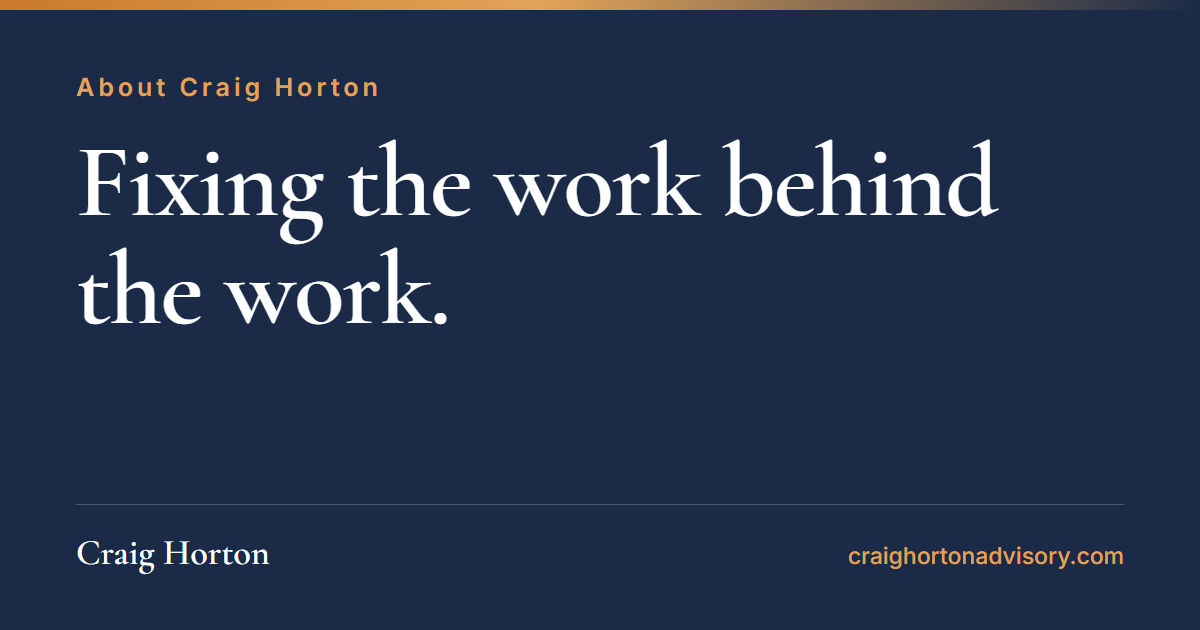
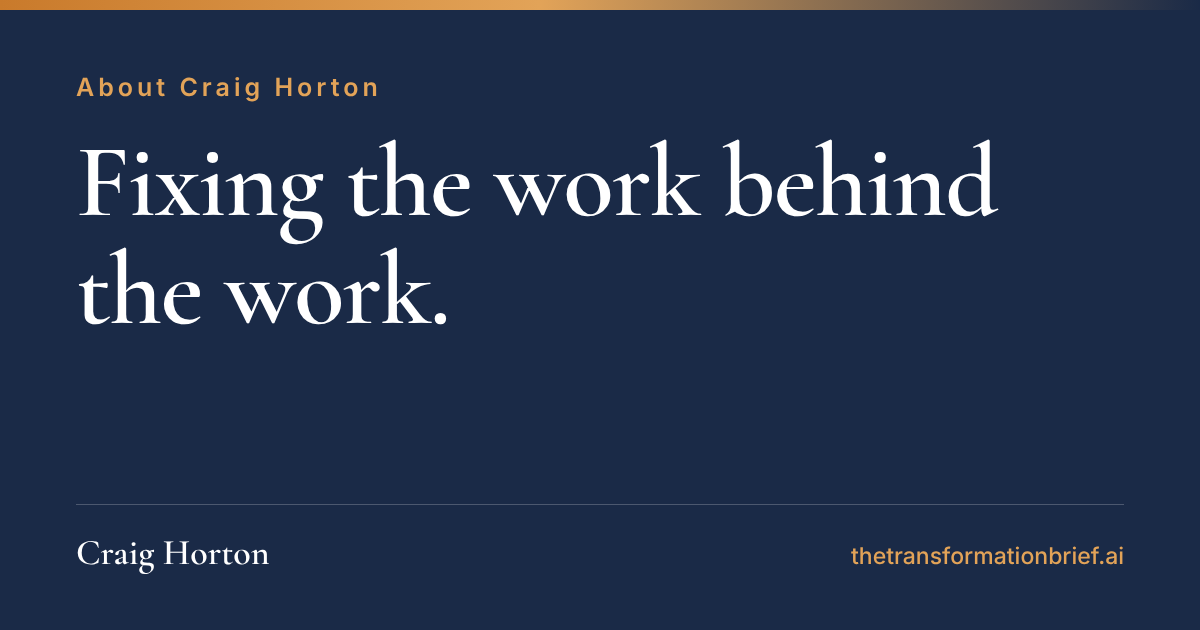
The site's address is thetransformationbrief.ai
Every page, the sitemap, the share images and the links in mail now give
the new address. The old address will forward to it.

Left as they are: the mail addresses, which stay on the old domain for
now, the short pulse address, and two files that record what was sent in
the past.

Claude-Session: https://claude.ai/code/session_015xj3ht279fNGmS8wRyN6y1

diff --git a/issue-17-briefing.html b/issue-17-briefing.html
@@ -4,18 +4,18 @@
 <meta charset="UTF-8">
 <meta name="viewport" content="width=device-width, initial-scale=1.0">
 <title>The model is open, the accountability is yours | The Transformation Brief</title>
-<link rel="canonical" href="https://www.craighortonadvisory.com/issue-17-briefing.html">
+<link rel="canonical" href="https://thetransformationbrief.ai/issue-17-briefing.html">
 <meta property="og:type" content="article">
 <meta property="og:title" content="The model is open, the accountability is yours | The Transformation Brief">
 <meta property="og:description" content="The Transformation Brief, Issue 17, briefing edition. The model is open, the accountability is yours. Twenty-five companies asked Washington to back open-weight AI, and the responsibility moves with the weights.">
 <meta property="og:site_name" content="Craig Horton">
-<meta property="og:url" content="https://www.craighortonadvisory.com/issue-17-briefing.html">
-<meta property="og:image" content="https://www.craighortonadvisory.com/images/share/issue-17.png">
+<meta property="og:url" content="https://thetransformationbrief.ai/issue-17-briefing.html">
+<meta property="og:image" content="https://thetransformationbrief.ai/images/share/issue-17.png">
 <meta property="og:image:width" content="1200">
 <meta property="og:image:height" content="630">
 <meta property="og:image:alt" content="The Transformation Brief, Issue 17: The model is open, the accountability is yours">
 <meta name="twitter:card" content="summary_large_image">
-<meta name="twitter:image" content="https://www.craighortonadvisory.com/images/share/issue-17.png">
+<meta name="twitter:image" content="https://thetransformationbrief.ai/images/share/issue-17.png">
 <meta name="description" content="The Transformation Brief, Issue 17, briefing edition. The model is open, the accountability is yours. Twenty-five companies asked Washington to back open-weight AI, and the responsibility moves with the weights.">
 <link href="https://fonts.googleapis.com/css2?family=Cormorant+Garamond:wght@400;500;600;700&family=Inter:wght@400;500;600;700&display=swap" rel="stylesheet">
 <style>
@@ -108,7 +108,7 @@
     <div class="ptag">One-question pulse</div>
     <p>This month we are measuring the Strategic Alignment driver of the Blueprint. Your answer joins the Blueprint Index, which we publish in the next issue.</p>
     <div class="q">Can your board or executive team articulate your organisation's AI strategy in one sentence that would survive a 30-second explanation to a new hire?</div>
-    <div class="cta">Answer in 15 seconds, anonymous, no email: <a href="https://brief.craighortonadvisory.com/pulse">brief.craighortonadvisory.com/pulse</a></div>
+    <div class="cta">Answer in 15 seconds, anonymous, no email: <a href="https://thetransformationbrief.ai/pulse">thetransformationbrief.ai/pulse</a></div>
   </div>
 
   <div class="office">
@@ -146,7 +146,7 @@
 
   <div class="foot">
     <p>Once again, I appreciate your interest and time to read this brief, and as always, look forward to your feedback and comments. Enjoy your weekend, Craig</p>
-    <p style="margin-top:10px;">The Transformation Brief &nbsp;·&nbsp; <a href="https://brief.craighortonadvisory.com">brief.craighortonadvisory.com</a> &nbsp;·&nbsp; <a href="https://brief.craighortonadvisory.com/archive.html">Archive</a></p>
+    <p style="margin-top:10px;">The Transformation Brief &nbsp;·&nbsp; <a href="https://thetransformationbrief.ai">thetransformationbrief.ai</a> &nbsp;·&nbsp; <a href="https://thetransformationbrief.ai/archive.html">Archive</a></p>
   </div>
 
 </div>

diff --git a/issue-18-briefing.html b/issue-18-briefing.html
@@ -4,19 +4,19 @@
 <meta charset="UTF-8">
 <meta name="viewport" content="width=device-width, initial-scale=1.0">
 <title>Can you count your agents? | The Transformation Brief</title>
-<link rel="canonical" href="https://www.craighortonadvisory.com/issue-18-briefing.html">
+<link rel="canonical" href="https://thetransformationbrief.ai/issue-18-briefing.html">
 <meta name="description" content="AI agents are moving into the enterprise faster than most governance models can track, with SAP LeanIX reporting that only 17% of companies have visibility of agent performance or conformance.">
 <meta property="og:type" content="article">
 <meta property="og:title" content="Can you count your agents? | The Transformation Brief">
 <meta property="og:description" content="AI agents are moving into the enterprise faster than most governance models can track, with SAP LeanIX reporting that only 17% of companies have visibility of agent performance or conformance.">
 <meta property="og:site_name" content="Craig Horton">
-<meta property="og:url" content="https://www.craighortonadvisory.com/issue-18-briefing.html">
-<meta property="og:image" content="https://www.craighortonadvisory.com/images/share/issue-18.png">
+<meta property="og:url" content="https://thetransformationbrief.ai/issue-18-briefing.html">
+<meta property="og:image" content="https://thetransformationbrief.ai/images/share/issue-18.png">
 <meta property="og:image:width" content="1200">
 <meta property="og:image:height" content="630">
 <meta property="og:image:alt" content="The Transformation Brief, Issue 18: Can you count your agents?">
 <meta name="twitter:card" content="summary_large_image">
-<meta name="twitter:image" content="https://www.craighortonadvisory.com/images/share/issue-18.png">
+<meta name="twitter:image" content="https://thetransformationbrief.ai/images/share/issue-18.png">
 <style>
   :root{--navy:#1a2a47;--amber:#c97a2b;--amber-soft:#e2a358;--paper:#ffffff;--ink:#26344c;--muted:#647087;--line:#d9dce2;--white:#fff}
   *{box-sizing:border-box} body{margin:0;background:#eceef1;color:var(--ink);font-family:Arial,sans-serif;line-height:1.62;-webkit-font-smoothing:antialiased}
@@ -103,7 +103,7 @@
   <footer class="foot">
     <p>Once again, I appreciate your interest and time in reading this brief, and as always, I look forward to your feedback and comments. Enjoy your weekend, Craig</p>
     <p class="disclosure">Written in a personal capacity using public sources. The views are my own and do not represent Pax8. No confidential customer, partner or company information has been used.</p>
-    <p style="margin-top:10px;">The Transformation Brief &middot; <a href="https://brief.craighortonadvisory.com">brief.craighortonadvisory.com</a> &middot; <a href="https://brief.craighortonadvisory.com/archive.html">Archive</a></p>
+    <p style="margin-top:10px;">The Transformation Brief &middot; <a href="https://thetransformationbrief.ai">thetransformationbrief.ai</a> &middot; <a href="https://thetransformationbrief.ai/archive.html">Archive</a></p>
   </footer>
 </main>
 <script src="./site.js" defer></script>

diff --git a/issue-16-briefing.html b/issue-16-briefing.html
@@ -4,18 +4,18 @@
 <meta charset="UTF-8">
 <meta name="viewport" content="width=device-width, initial-scale=1.0">
 <title>AI Secures a Seat at the Top Table | The Transformation Brief</title>
-<link rel="canonical" href="https://www.craighortonadvisory.com/issue-16-briefing.html">
+<link rel="canonical" href="https://thetransformationbrief.ai/issue-16-briefing.html">
 <meta property="og:type" content="article">
 <meta property="og:title" content="AI Secures a Seat at the Top Table | The Transformation Brief">
 <meta property="og:description" content="The Transformation Brief, Issue 16, briefing edition. AI Secures a Seat at the Top Table. DSIT dismantled, a Minister for Artificial Intelligence attending Cabinet, and the authority question inside organisations.">
 <meta property="og:site_name" content="Craig Horton">
-<meta property="og:url" content="https://www.craighortonadvisory.com/issue-16-briefing.html">
-<meta property="og:image" content="https://www.craighortonadvisory.com/images/share/issue-16.png">
+<meta property="og:url" content="https://thetransformationbrief.ai/issue-16-briefing.html">
+<meta property="og:image" content="https://thetransformationbrief.ai/images/share/issue-16.png">
 <meta property="og:image:width" content="1200">
 <meta property="og:image:height" content="630">
 <meta property="og:image:alt" content="The Transformation Brief, Issue 16: AI Secures a Seat at the Top Table">
 <meta name="twitter:card" content="summary_large_image">
-<meta name="twitter:image" content="https://www.craighortonadvisory.com/images/share/issue-16.png">
+<meta name="twitter:image" content="https://thetransformationbrief.ai/images/share/issue-16.png">
 <meta name="description" content="The Transformation Brief, Issue 16, briefing edition. AI Secures a Seat at the Top Table. DSIT dismantled, a Minister for Artificial Intelligence attending Cabinet, and the authority question inside organisations.">
 <link href="https://fonts.googleapis.com/css2?family=Cormorant+Garamond:wght@400;500;600;700&family=Inter:wght@400;500;600;700&display=swap" rel="stylesheet">
 <style>
@@ -124,7 +124,7 @@
 
   <div class="foot">
     <p>Once again, I appreciate your interest and time to read this brief, and as always, look forward to your feedback and comments. Enjoy your weekend, Craig</p>
-    <p style="margin-top:10px;">The Transformation Brief &nbsp;·&nbsp; <a href="https://brief.craighortonadvisory.com">brief.craighortonadvisory.com</a> &nbsp;·&nbsp; <a href="https://brief.craighortonadvisory.com/archive.html">Archive</a> &nbsp;·&nbsp; <a href="https://www.linkedin.com/pulse/ai-secures-seat-top-table-craig-horton-tkcje/">Read on LinkedIn</a></p>
+    <p style="margin-top:10px;">The Transformation Brief &nbsp;·&nbsp; <a href="https://thetransformationbrief.ai">thetransformationbrief.ai</a> &nbsp;·&nbsp; <a href="https://thetransformationbrief.ai/archive.html">Archive</a> &nbsp;·&nbsp; <a href="https://www.linkedin.com/pulse/ai-secures-seat-top-table-craig-horton-tkcje/">Read on LinkedIn</a></p>
   </div>
 
 </div>

diff --git a/issue-15-briefing.html b/issue-15-briefing.html
@@ -4,18 +4,18 @@
 <meta charset="UTF-8">
 <meta name="viewport" content="width=device-width, initial-scale=1.0">
 <title>Where does the AI dividend go? | The Transformation Brief</title>
-<link rel="canonical" href="https://www.craighortonadvisory.com/issue-15-briefing.html">
+<link rel="canonical" href="https://thetransformationbrief.ai/issue-15-briefing.html">
 <meta property="og:type" content="article">
 <meta property="og:title" content="Where does the AI dividend go? | The Transformation Brief">
 <meta property="og:description" content="The Transformation Brief, Issue 15, briefing edition. Where does the AI dividend go? JPMorgan cut some teams by 30 to 40 percent and told investors not to expect fatter margins.">
 <meta property="og:site_name" content="Craig Horton">
-<meta property="og:url" content="https://www.craighortonadvisory.com/issue-15-briefing.html">
-<meta property="og:image" content="https://www.craighortonadvisory.com/images/share/issue-15.png">
+<meta property="og:url" content="https://thetransformationbrief.ai/issue-15-briefing.html">
+<meta property="og:image" content="https://thetransformationbrief.ai/images/share/issue-15.png">
 <meta property="og:image:width" content="1200">
 <meta property="og:image:height" content="630">
 <meta property="og:image:alt" content="The Transformation Brief, Issue 15: Where does the AI dividend go?">
 <meta name="twitter:card" content="summary_large_image">
-<meta name="twitter:image" content="https://www.craighortonadvisory.com/images/share/issue-15.png">
+<meta name="twitter:image" content="https://thetransformationbrief.ai/images/share/issue-15.png">
 <meta name="description" content="The Transformation Brief, Issue 15, briefing edition. Where does the AI dividend go? JPMorgan cut some teams by 30 to 40 percent and told investors not to expect fatter margins.">
 <link href="https://fonts.googleapis.com/css2?family=Cormorant+Garamond:wght@400;500;600;700&family=Inter:wght@400;500;600;700&display=swap" rel="stylesheet">
 <style>
@@ -149,7 +149,7 @@
 
   <div class="foot">
     <p>Once again, I appreciate your interest and time to read this brief, and as always, look forward to your feedback and comments. Enjoy your weekend, Craig</p>
-    <p style="margin-top:10px;">The Transformation Brief &nbsp;·&nbsp; <a href="https://brief.craighortonadvisory.com">brief.craighortonadvisory.com</a> &nbsp;·&nbsp; <a href="https://brief.craighortonadvisory.com/archive.html">Archive</a></p>
+    <p style="margin-top:10px;">The Transformation Brief &nbsp;·&nbsp; <a href="https://thetransformationbrief.ai">thetransformationbrief.ai</a> &nbsp;·&nbsp; <a href="https://thetransformationbrief.ai/archive.html">Archive</a></p>
   </div>
 
 </div>

diff --git a/issue-13-briefing.html b/issue-13-briefing.html
@@ -4,18 +4,18 @@
 <meta charset="UTF-8">
 <meta name="viewport" content="width=device-width, initial-scale=1.0">
 <title>Who owns the work when the workforce is part human, part agent? | The Transformation Brief</title>
-<link rel="canonical" href="https://www.craighortonadvisory.com/issue-13-briefing.html">
+<link rel="canonical" href="https://thetransformationbrief.ai/issue-13-briefing.html">
 <meta property="og:type" content="article">
 <meta property="og:title" content="Who owns the work when the workforce is part human, part agent? | The Transformation Brief">
 <meta property="og:description" content="The Transformation Brief, Issue 13, briefing edition. Who owns the work when the workforce is part human, part agent?">
 <meta property="og:site_name" content="Craig Horton">
-<meta property="og:url" content="https://www.craighortonadvisory.com/issue-13-briefing.html">
-<meta property="og:image" content="https://www.craighortonadvisory.com/images/share/issue-13.png">
+<meta property="og:url" content="https://thetransformationbrief.ai/issue-13-briefing.html">
+<meta property="og:image" content="https://thetransformationbrief.ai/images/share/issue-13.png">
 <meta property="og:image:width" content="1200">
 <meta property="og:image:height" content="630">
 <meta property="og:image:alt" content="The Transformation Brief, Issue 13: Who owns the work when the workforce is part human, part agent?">
 <meta name="twitter:card" content="summary_large_image">
-<meta name="twitter:image" content="https://www.craighortonadvisory.com/images/share/issue-13.png">
+<meta name="twitter:image" content="https://thetransformationbrief.ai/images/share/issue-13.png">
 <meta name="description" content="The Transformation Brief, Issue 13, briefing edition. Who owns the work when the workforce is part human, part agent?">
 <link href="https://fonts.googleapis.com/css2?family=Cormorant+Garamond:wght@400;500;600;700&family=Inter:wght@400;500;600;700&display=swap" rel="stylesheet">
 <style>
@@ -140,7 +140,7 @@
 
   <div class="foot">
     <p>Once again, I appreciate your interest and time to read this brief, and as always, look forward to your feedback and comments. Enjoy your weekend. Craig</p>
-    <p style="margin-top:10px;">The Transformation Brief &nbsp;·&nbsp; <a href="https://brief.craighortonadvisory.com">brief.craighortonadvisory.com</a> &nbsp;·&nbsp; <a href="https://brief.craighortonadvisory.com/archive.html">Archive</a></p>
+    <p style="margin-top:10px;">The Transformation Brief &nbsp;·&nbsp; <a href="https://thetransformationbrief.ai">thetransformationbrief.ai</a> &nbsp;·&nbsp; <a href="https://thetransformationbrief.ai/archive.html">Archive</a></p>
   </div>
 
 </div>

diff --git a/diagnostic.html b/diagnostic.html
@@ -4,19 +4,19 @@
 <meta charset="UTF-8">
 <meta name="viewport" content="width=device-width, initial-scale=1.0">
 <title>Human-Agent Operating Model Diagnostic | Craig Horton</title>
-<link rel="canonical" href="https://www.craighortonadvisory.com/diagnostic.html">
+<link rel="canonical" href="https://thetransformationbrief.ai/diagnostic.html">
 <meta name="description" content="Eight dimensions, four modes, one honest score. Where does your organisation actually sit on the spectrum from legacy hierarchy to agentic, and where should it be by the end of this year?">
 <meta property="og:type" content="website">
 <meta property="og:title" content="Human-Agent Operating Model Diagnostic">
 <meta property="og:description" content="Eight dimensions, four modes, one honest score. Where does your organisation actually sit on the spectrum from legacy hierarchy to agentic, and where should it be by the end of this year?">
 <meta property="og:site_name" content="Craig Horton">
-<meta property="og:url" content="https://www.craighortonadvisory.com/diagnostic.html">
-<meta property="og:image" content="https://www.craighortonadvisory.com/images/share/diagnostic.png">
+<meta property="og:url" content="https://thetransformationbrief.ai/diagnostic.html">
+<meta property="og:image" content="https://thetransformationbrief.ai/images/share/diagnostic.png">
 <meta property="og:image:width" content="1200">
 <meta property="og:image:height" content="630">
 <meta property="og:image:alt" content="Diagnostic: Human-Agent Operating Model Diagnostic">
 <meta name="twitter:card" content="summary_large_image">
-<meta name="twitter:image" content="https://www.craighortonadvisory.com/images/share/diagnostic.png">
+<meta name="twitter:image" content="https://thetransformationbrief.ai/images/share/diagnostic.png">
 <link rel="preconnect" href="https://fonts.googleapis.com">
 <link rel="preconnect" href="https://fonts.gstatic.com" crossorigin>
 <link href="https://fonts.googleapis.com/css2?family=Cormorant+Garamond:wght@400;500;600;700&family=Inter:wght@400;500;600;700&display=swap" rel="stylesheet">
@@ -1185,7 +1185,7 @@
   <div class="wordmark">Craig Horton</div>
   <p>The Human-Agent Operating Model Diagnostic, from The Transformation Brief.</p>
   <p>Built on research from McKinsey, Deloitte, Gartner, BCG, Hamel, and real-world deployment evidence.</p>
-  <p style="margin-top: 12px;"><a href="https://brief.craighortonadvisory.com">brief.craighortonadvisory.com</a></p>
+  <p style="margin-top: 12px;"><a href="https://thetransformationbrief.ai">thetransformationbrief.ai</a></p>
   <p class="copy">&copy; 2026 Craig Horton. All rights reserved.</p>
 </footer>
 

diff --git a/issue-14-briefing.html b/issue-14-briefing.html
@@ -4,18 +4,18 @@
 <meta charset="UTF-8">
 <meta name="viewport" content="width=device-width, initial-scale=1.0">
 <title>The Operating Model Change | The Transformation Brief</title>
-<link rel="canonical" href="https://www.craighortonadvisory.com/issue-14-briefing.html">
+<link rel="canonical" href="https://thetransformationbrief.ai/issue-14-briefing.html">
 <meta property="og:type" content="article">
 <meta property="og:title" content="The Operating Model Change | The Transformation Brief">
 <meta property="og:description" content="The Transformation Brief, Issue 14, briefing edition. The Operating Model Change. 4,800 roles are going. The operating model is the real story.">
 <meta property="og:site_name" content="Craig Horton">
-<meta property="og:url" content="https://www.craighortonadvisory.com/issue-14-briefing.html">
-<meta property="og:image" content="https://www.craighortonadvisory.com/images/share/issue-14.png">
+<meta property="og:url" content="https://thetransformationbrief.ai/issue-14-briefing.html">
+<meta property="og:image" content="https://thetransformationbrief.ai/images/share/issue-14.png">
 <meta property="og:image:width" content="1200">
 <meta property="og:image:height" content="630">
 <meta property="og:image:alt" content="The Transformation Brief, Issue 14: The Operating Model Change">
 <meta name="twitter:card" content="summary_large_image">
-<meta name="twitter:image" content="https://www.craighortonadvisory.com/images/share/issue-14.png">
+<meta name="twitter:image" content="https://thetransformationbrief.ai/images/share/issue-14.png">
 <meta name="description" content="The Transformation Brief, Issue 14, briefing edition. The Operating Model Change. 4,800 roles are going. The operating model is the real story.">
 <link href="https://fonts.googleapis.com/css2?family=Cormorant+Garamond:wght@400;500;600;700&family=Inter:wght@400;500;600;700&display=swap" rel="stylesheet">
 <style>
@@ -154,7 +154,7 @@
 
   <div class="foot">
     <p>Once again, I appreciate your interest and time to read this brief, and as always, look forward to your feedback and comments. Enjoy your weekend, Craig</p>
-    <p style="margin-top:10px;">The Transformation Brief &nbsp;·&nbsp; <a href="https://brief.craighortonadvisory.com">brief.craighortonadvisory.com</a> &nbsp;·&nbsp; <a href="https://brief.craighortonadvisory.com/archive.html">Archive</a></p>
+    <p style="margin-top:10px;">The Transformation Brief &nbsp;·&nbsp; <a href="https://thetransformationbrief.ai">thetransformationbrief.ai</a> &nbsp;·&nbsp; <a href="https://thetransformationbrief.ai/archive.html">Archive</a></p>
   </div>
 
 </div>

diff --git a/end-of-the-org-chart.html b/end-of-the-org-chart.html
@@ -10,16 +10,16 @@
 <meta property="og:title" content="The End of the Org Chart">
 <meta property="og:description" content="How the human-agent operating model extends a 100-year arc from Taylor to Hamel. A paper by Craig Horton.">
 <meta property="og:site_name" content="Craig Horton">
-<meta property="og:url" content="https://www.craighortonadvisory.com/end-of-the-org-chart.html">
+<meta property="og:url" content="https://thetransformationbrief.ai/end-of-the-org-chart.html">
 <meta name="twitter:card" content="summary_large_image">
 <meta name="twitter:title" content="The End of the Org Chart">
 <meta name="twitter:description" content="How the human-agent operating model extends a 100-year arc from Taylor to Hamel.">
-<link rel="canonical" href="https://www.craighortonadvisory.com/end-of-the-org-chart.html">
-<meta property="og:image" content="https://www.craighortonadvisory.com/images/share/end-of-the-org-chart.png">
+<link rel="canonical" href="https://thetransformationbrief.ai/end-of-the-org-chart.html">
+<meta property="og:image" content="https://thetransformationbrief.ai/images/share/end-of-the-org-chart.png">
 <meta property="og:image:width" content="1200">
 <meta property="og:image:height" content="630">
 <meta property="og:image:alt" content="Paper: The End of the Org Chart">
-<meta name="twitter:image" content="https://www.craighortonadvisory.com/images/share/end-of-the-org-chart.png">
+<meta name="twitter:image" content="https://thetransformationbrief.ai/images/share/end-of-the-org-chart.png">
 <link rel="preconnect" href="https://fonts.googleapis.com">
 <link rel="preconnect" href="https://fonts.gstatic.com" crossorigin>
 <link href="https://fonts.googleapis.com/css2?family=Cormorant+Garamond:wght@400;500;600;700&family=Inter:wght@400;500;600;700&display=swap" rel="stylesheet">
@@ -847,7 +847,7 @@
     <p class="subtitle">How the human-agent operating model extends a 100-year arc from Taylor to Hamel.</p>
     <div class="byline">
       <span>By Craig Horton</span>
-      <span>April 2026 &nbsp;·&nbsp; craighortonadvisory.com</span>
+      <span>April 2026 &nbsp;·&nbsp; thetransformationbrief.ai</span>
     </div>
   </div>
 </header>
@@ -1231,7 +1231,7 @@
     </div>
 
     <div class="colophon">
-      <a href="https://brief.craighortonadvisory.com">brief.craighortonadvisory.com</a> &nbsp;·&nbsp;
+      <a href="https://thetransformationbrief.ai">thetransformationbrief.ai</a> &nbsp;·&nbsp;
       <a href="https://github.com/Craig-Horton/ai-bvf">github.com/Craig-Horton/ai-bvf</a>
       <br/>
       &copy; 2026 Craig Horton. All rights reserved.

diff --git a/the-check-came-after-the-change.html b/the-check-came-after-the-change.html
@@ -10,16 +10,16 @@
 <meta property="og:title" content="The check came after the change">
 <meta property="og:description" content="What an AI agent found when Craig Horton handed it AI BVF for a weekend, and how to run it yourself. For executives first, then for technical staff.">
 <meta property="og:site_name" content="Craig Horton">
-<meta property="og:url" content="https://www.craighortonadvisory.com/the-check-came-after-the-change.html">
-<link rel="canonical" href="https://www.craighortonadvisory.com/the-check-came-after-the-change.html">
-<meta property="og:image" content="https://www.craighortonadvisory.com/images/share/the-check-came-after-the-change.png">
+<meta property="og:url" content="https://thetransformationbrief.ai/the-check-came-after-the-change.html">
+<link rel="canonical" href="https://thetransformationbrief.ai/the-check-came-after-the-change.html">
+<meta property="og:image" content="https://thetransformationbrief.ai/images/share/the-check-came-after-the-change.png">
 <meta property="og:image:width" content="1200">
 <meta property="og:image:height" content="630">
 <meta property="og:image:alt" content="Paper: The check came after the change">
 <meta name="twitter:card" content="summary_large_image">
 <meta name="twitter:title" content="The check came after the change">
 <meta name="twitter:description" content="What an AI agent found when Craig Horton handed it AI BVF for a weekend, and how to run it yourself. For executives first, then for technical staff.">
-<meta name="twitter:image" content="https://www.craighortonadvisory.com/images/share/the-check-came-after-the-change.png">
+<meta name="twitter:image" content="https://thetransformationbrief.ai/images/share/the-check-came-after-the-change.png">
 <link rel="preconnect" href="https://fonts.googleapis.com">
 <link rel="preconnect" href="https://fonts.gstatic.com" crossorigin>
 <link href="https://fonts.googleapis.com/css2?family=Cormorant+Garamond:wght@400;500;600;700&family=Inter:wght@400;500;600;700&display=swap" rel="stylesheet">

diff --git a/workflow-coroner.html b/workflow-coroner.html
@@ -8,14 +8,14 @@
 <meta property="og:type" content="website">
 <meta property="og:title" content="Workflow Coroner, the Stop-first AI BVF agent pipeline">
 <meta property="og:description" content="Five agents, Celonis-shaped ingestion, MuleSoft-shaped actuation. Open-source under the AI Business Value Framework.">
-<meta property="og:url" content="https://www.craighortonadvisory.com/workflow-coroner.html">
-<link rel="canonical" href="https://www.craighortonadvisory.com/workflow-coroner.html">
-<meta property="og:image" content="https://www.craighortonadvisory.com/images/share/workflow-coroner.png">
+<meta property="og:url" content="https://thetransformationbrief.ai/workflow-coroner.html">
+<link rel="canonical" href="https://thetransformationbrief.ai/workflow-coroner.html">
+<meta property="og:image" content="https://thetransformationbrief.ai/images/share/workflow-coroner.png">
 <meta property="og:image:width" content="1200">
 <meta property="og:image:height" content="630">
 <meta property="og:image:alt" content="An agent pipeline built on the AI BVF: Workflow Coroner">
 <meta name="twitter:card" content="summary_large_image">
-<meta name="twitter:image" content="https://www.craighortonadvisory.com/images/share/workflow-coroner.png">
+<meta name="twitter:image" content="https://thetransformationbrief.ai/images/share/workflow-coroner.png">
 <link rel="preconnect" href="https://fonts.googleapis.com">
 <link rel="preconnect" href="https://fonts.gstatic.com" crossorigin>
 <link href="https://fonts.googleapis.com/css2?family=Cormorant+Garamond:wght@400;500;600;700&family=Inter:wght@400;500;600;700&display=swap" rel="stylesheet">
@@ -275,7 +275,7 @@
     </div>
     <div class="byline">
       <span>By Craig Horton</span>
-      <span>May 2026 &nbsp;&middot;&nbsp; brief.craighortonadvisory.com</span>
+      <span>May 2026 &nbsp;&middot;&nbsp; thetransformationbrief.ai</span>
     </div>
   </div>
 </header>

diff --git a/archive.html b/archive.html
@@ -9,14 +9,14 @@
 <meta property="og:title" content="Archive | The Transformation Brief | Craig Horton">
 <meta property="og:description" content="The Transformation Brief, weekly intelligence for senior leaders navigating AI transformation.">
 <meta property="og:site_name" content="Craig Horton">
-<meta property="og:url" content="https://www.craighortonadvisory.com/archive.html">
-<link rel="canonical" href="https://www.craighortonadvisory.com/archive.html">
-<meta property="og:image" content="https://www.craighortonadvisory.com/images/share/brief.png">
+<meta property="og:url" content="https://thetransformationbrief.ai/archive.html">
+<link rel="canonical" href="https://thetransformationbrief.ai/archive.html">
+<meta property="og:image" content="https://thetransformationbrief.ai/images/share/brief.png">
 <meta property="og:image:width" content="1200">
 <meta property="og:image:height" content="630">
 <meta property="og:image:alt" content="The Transformation Brief: A weekly signal, for leaders who need signal, not volume.">
 <meta name="twitter:card" content="summary_large_image">
-<meta name="twitter:image" content="https://www.craighortonadvisory.com/images/share/brief.png">
+<meta name="twitter:image" content="https://thetransformationbrief.ai/images/share/brief.png">
 <link rel="preconnect" href="https://fonts.googleapis.com">
 <link rel="preconnect" href="https://fonts.gstatic.com" crossorigin>
 <link href="https://fonts.googleapis.com/css2?family=Cormorant+Garamond:wght@400;500;600;700&family=Inter:wght@400;500;600;700&display=swap" rel="stylesheet">

diff --git a/work.html b/work.html
@@ -9,14 +9,14 @@
 <meta property="og:title" content="Work | Craig Horton">
 <meta property="og:description" content="What Craig Horton has built and published: the AI Business Value Framework, aibvf-mcp, the Workflow Coroner, the Human-Agent Operating Model and The Transformation Brief.">
 <meta property="og:site_name" content="Craig Horton">
-<meta property="og:url" content="https://www.craighortonadvisory.com/work.html">
-<link rel="canonical" href="https://www.craighortonadvisory.com/work.html">
-<meta property="og:image" content="https://www.craighortonadvisory.com/images/share/work.png">
+<meta property="og:url" content="https://thetransformationbrief.ai/work.html">
+<link rel="canonical" href="https://thetransformationbrief.ai/work.html">
+<meta property="og:image" content="https://thetransformationbrief.ai/images/share/work.png">
 <meta property="og:image:width" content="1200">
 <meta property="og:image:height" content="630">
 <meta property="og:image:alt" content="Work: What Craig has built and published.">
 <meta name="twitter:card" content="summary_large_image">
-<meta name="twitter:image" content="https://www.craighortonadvisory.com/images/share/work.png">
+<meta name="twitter:image" content="https://thetransformationbrief.ai/images/share/work.png">
 <link rel="preconnect" href="https://fonts.googleapis.com">
 <link rel="preconnect" href="https://fonts.gstatic.com" crossorigin>
 <link href="https://fonts.googleapis.com/css2?family=Cormorant+Garamond:wght@400;500;600;700&family=Inter:wght@400;500;600;700&display=swap" rel="stylesheet">
